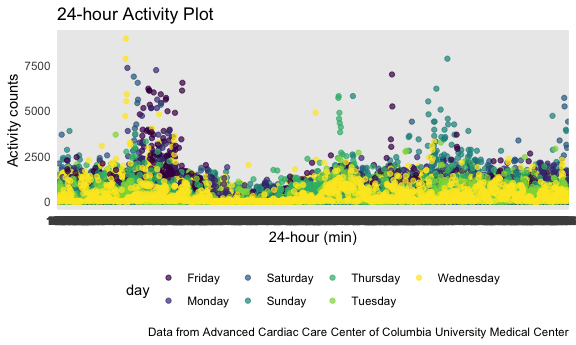
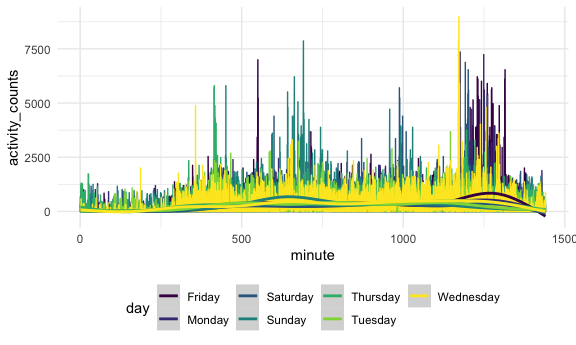
first attempt to all problems -- need corrections

diff --git a/p8105_hw3_jz3297.md b/p8105_hw3_jz3297.md
@@ -20,6 +20,8 @@ library(tidyverse)
 ``` r
 library(p8105.datasets)
 library(readxl)
+library(ggridges)
+library(patchwork)
 
 knitr::opts_chunk$set(
   fig.width = 6,
@@ -175,6 +177,11 @@ accel_df =
 
     ## See spec(...) for full column specifications.
 
+``` r
+accel_df = 
+  mutate_at(accel_df, vars(minute), as.numeric)
+```
+
 This dataset contains information on five weeks of accelerometer data
 collected from a 63 year-old male with BMI 25 and diagnosed with
 congestive heart failure. After cleaning and tidying, the final dataset
@@ -187,59 +194,44 @@ counts columns. It has a total of 50400 rows and 7 columns.
 
 ``` r
 accel_df %>%
-  group_by(day_id) %>%
+  group_by(day) %>%
   summarize(total_activity = sum(activity_counts)) %>%
+  arrange(desc(total_activity)) %>%
   knitr::kable()
 ```
 
     ## `summarise()` ungrouping output (override with `.groups` argument)
 
-| day\_id | total\_activity |
-| ------: | --------------: |
-|       1 |       480542.62 |
-|       2 |        78828.07 |
-|       3 |       376254.00 |
-|       4 |       631105.00 |
-|       5 |       355923.64 |
-|       6 |       307094.24 |
-|       7 |       340115.01 |
-|       8 |       568839.00 |
-|       9 |       295431.00 |
-|      10 |       607175.00 |
-|      11 |       422018.00 |
-|      12 |       474048.00 |
-|      13 |       423245.00 |
-|      14 |       440962.00 |
-|      15 |       467420.00 |
-|      16 |       685910.00 |
-|      17 |       382928.00 |
-|      18 |       467052.00 |
-|      19 |       371230.00 |
-|      20 |       381507.00 |
-|      21 |       468869.00 |
-|      22 |       154049.00 |
-|      23 |       409450.00 |
-|      24 |         1440.00 |
-|      25 |       260617.00 |
-|      26 |       340291.00 |
-|      27 |       319568.00 |
-|      28 |       434460.00 |
-|      29 |       620860.00 |
-|      30 |       389080.00 |
-|      31 |         1440.00 |
-|      32 |       138421.00 |
-|      33 |       549658.00 |
-|      34 |       367824.00 |
-|      35 |       445366.00 |
+| day       | total\_activity |
+| :-------- | --------------: |
+| Friday    |         2291711 |
+| Wednesday |         2129772 |
+| Thursday  |         2091151 |
+| Sunday    |         1919213 |
+| Monday    |         1858699 |
+| Tuesday   |         1799238 |
+| Saturday  |         1369237 |
 
-Describe trends?
+The participant had more activity counts for Friday, Wednesday, and
+Thursday.
+
+<br />
 
 ##### Make a single-panel plot
 
 ``` r
 accel_df %>%
+  group_by(day) %>%
   ggplot(aes(x = minute, y = activity_counts, color = day)) +
-  geom_point(alpha = .7) +
+  geom_line() +
+  stat_smooth()
+```
+
+    ## `geom_smooth()` using method = 'gam' and formula 'y ~ s(x, bs = "cs")'
+
+<img src="p8105_hw3_jz3297_files/figure-gfm/unnamed-chunk-7-1.png" width="90%" />
+
+``` r
   labs(
     title = "24-hour Activity Plot",
     x = "24-hour (min)",
@@ -248,7 +240,20 @@ accel_df %>%
   )
 ```
 
-<img src="p8105_hw3_jz3297_files/figure-gfm/unnamed-chunk-7-1.png" width="90%" />
+    ## $x
+    ## [1] "24-hour (min)"
+    ## 
+    ## $y
+    ## [1] "Activity counts"
+    ## 
+    ## $title
+    ## [1] "24-hour Activity Plot"
+    ## 
+    ## $caption
+    ## [1] "Data from Advanced Cardiac Care Center of Columbia University Medical Center"
+    ## 
+    ## attr(,"class")
+    ## [1] "labels"
 
 Describe patterns or conclusions based on this graph.
 
@@ -260,7 +265,87 @@ Describe patterns or conclusions based on this graph.
 
 ``` r
 data("ny_noaa")
+
 ny_noaa =
-  mutate_at(ny_noaa, vars(date), as.character) %>%
+  mutate_at(ny_noaa, vars(date), as.factor) %>%
   separate(date, into = c("year", "month", "day"))
+
+ny_noaa =
+  mutate_at(ny_noaa, vars(tmax, tmin), as.numeric) %>%
+  mutate_at(vars(year, month, day), as.factor)
 ```
+
+<br />
+
+##### The most commonly observed values for snowfall.
+
+``` r
+ny_noaa %>%
+  count(snow) %>%
+  arrange(desc(n))
+```
+
+    ## # A tibble: 282 x 2
+    ##     snow       n
+    ##    <int>   <int>
+    ##  1     0 2008508
+    ##  2    NA  381221
+    ##  3    25   31022
+    ##  4    13   23095
+    ##  5    51   18274
+    ##  6    76   10173
+    ##  7     8    9962
+    ##  8     5    9748
+    ##  9    38    9197
+    ## 10     3    8790
+    ## # … with 272 more rows
+
+why?
+
+<br />
+
+##### Make a two-panel plot showing the average max temperature in January and July in each station across years.
+
+``` r
+ny_noaa %>%
+  group_by(id, month, year) %>%
+  summarize(mean_tmax = mean(tmax)) %>%
+  filter(month %in% c("01", "07")) %>%
+  ggplot(aes(x = year, y = mean_tmax)) +
+  geom_boxplot() +
+  theme(axis.text.x = element_text(angle = 90, vjust = 0.5, hjust = 1)) +
+  facet_grid(. ~ month)
+```
+
+    ## `summarise()` regrouping output by 'id', 'month' (override with `.groups` argument)
+
+    ## Warning: Removed 7058 rows containing non-finite values (stat_boxplot).
+
+<img src="p8105_hw3_jz3297_files/figure-gfm/unnamed-chunk-10-1.png" width="90%" />
+
+Is there any observable/interpretable structure? outliers?
+
+<br />
+
+##### Make a two-panel plot showing tmax vs. tmin & make a plot showing the distribution of snowfall values 0\<X\<100 by year
+
+``` r
+tmax_tmin_p =
+  ny_noaa %>%
+  ggplot(aes(x = tmax, y = tmin)) +
+  geom_hex()
+
+
+snow_p =
+  ny_noaa %>%
+  filter(snow > 0 & snow < 100) %>%
+  ggplot(aes(x = year, y = snow)) +
+  geom_boxplot()
+
+
+tmax_tmin_p + snow_p
+```
+
+    ## Warning: Removed 1136276 rows containing non-finite values (stat_binhex).
+
+<img src="p8105_hw3_jz3297_files/figure-gfm/unnamed-chunk-11-1.png" width="90%" />
